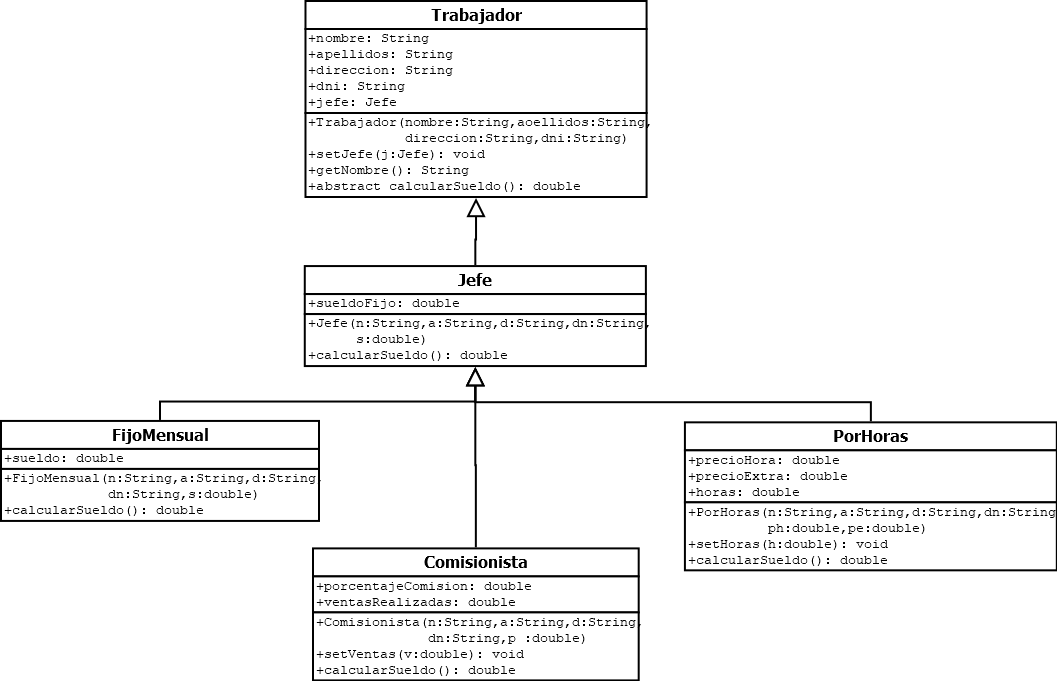
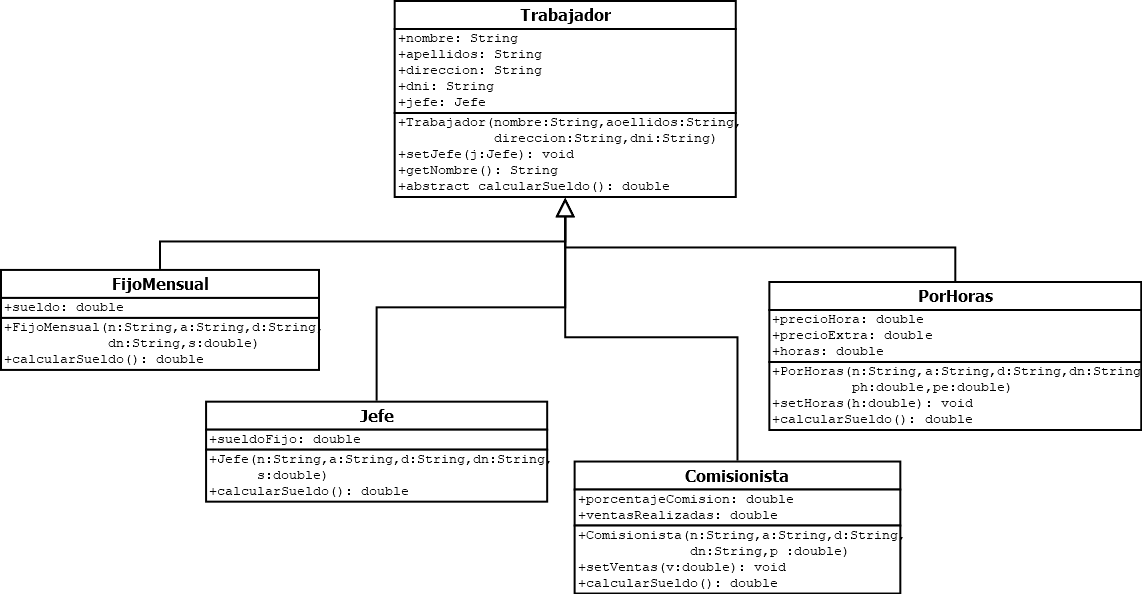
problema4

Changed region(s): [[0.0, 0.0, 1.0, 1.0]]

diff --git a/Solucion_Codigo/Proyect_Taller07/src/Problema_4_EjecutorTrabajador.java b/Solucion_Codigo/Proyect_Taller07/src/Problema_4_EjecutorTrabajador.java
@@ -5,24 +5,23 @@
  * @author Jhandry Navarrete
  * @version 1.0
  */
-
 public class Problema_4_EjecutorTrabajador {
     public static void main(String[] args) {
-        // Instancias de prueba
+        // Instancia del jefe
         Jefe jefe = new Jefe("Ana", "Perez", "Calle Falsa 123", "12345678A", 3000.0);
         
+        // Instancias de trabajadores (ahora todos heredan de Trabajador)
         FijoMensual t1 = new FijoMensual("Luis", "Garcia", "Av. Siempre Viva 1", "87654321B", 1200.0);
         t1.setJefe(jefe);
         
         PorHoras t2 = new PorHoras("Maria", "Lopez", "Plaza Central 5", "11223344C", 10.0, 15.0);
-        t2.setHoras(45.0); // 40 normales + 5 extras
+        t2.setHoras(45.0); 
         t2.setJefe(jefe);
 
         Comisionista t3 = new Comisionista("Carlos", "Ruiz", "Calle Real 10", "55667788D", 0.10);
         t3.setVentas(5000.0);
         t3.setJefe(jefe);
 
-        // Imprimir nóminas
         System.out.println("Nómina de " + t1.getNombre() + ": $" + t1.calcularSueldo());
         System.out.println("Nómina de " + t2.getNombre() + ": $" + t2.calcularSueldo());
         System.out.println("Nómina de " + t3.getNombre() + ": $" + t3.calcularSueldo());
@@ -31,17 +30,21 @@ public class Problema_4_EjecutorTrabajador {
 
 abstract class Trabajador {
     protected String nombre, apellidos, direccion, dni;
-    protected Jefe jefe;
+    // CORRECCIÓN: El jefe es un Trabajador, no específicamente un Jefe (evita dependencias circulares)
+    protected Trabajador jefe; 
 
     public Trabajador(String nombre, String apellidos, String direccion, String dni) {
         this.nombre = nombre; this.apellidos = apellidos;
         this.direccion = direccion; this.dni = dni;
     }
-    public void setJefe(Jefe j) { this.jefe = j; }
+    
+    // CORRECCIÓN: Acepta cualquier Trabajador como jefe
+    public void setJefe(Trabajador j) { this.jefe = j; }
     public String getNombre() { return nombre; }
     public abstract double calcularSueldo();
 }
 
+// Ahora Jefe también es un Trabajador
 class Jefe extends Trabajador {
     private double sueldoFijo;
     public Jefe(String n, String a, String d, String dn, double s) { super(n, a, d, dn); this.sueldoFijo = s; }
@@ -75,7 +78,8 @@ class PorHoras extends Trabajador {
 
 /**
  * run:
- * Nómina de Luis: $1200.0
- * Nómina de Maria: $475.0
- * Nómina de Carlos: $500.0
+N�mina de Luis: $1200.0
+N�mina de Maria: $475.0
+N�mina de Carlos: $500.0
+BUILD SUCCESSFUL (total time: 0 seconds)
  */